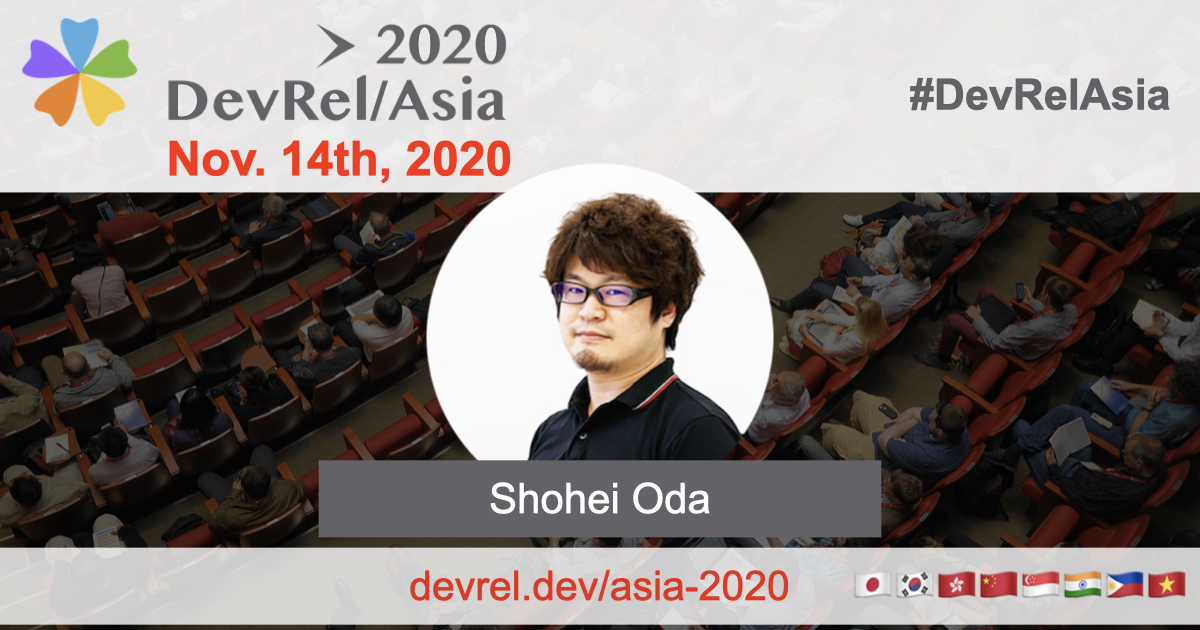
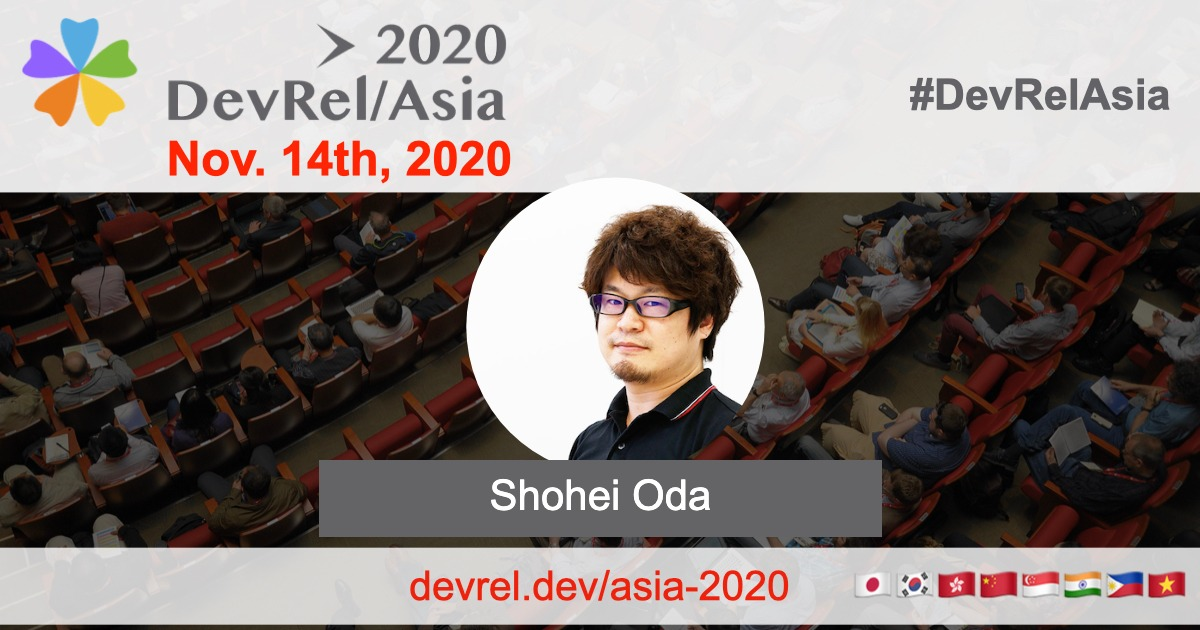
Add social image

diff --git a/assets/js/app.js b/assets/js/app.js
@@ -1,0 +1,47 @@
+document.addEventListener('DOMContentLoaded', async (e) => {
+  const board = document.querySelector("#social");
+  const ctx = board.getContext("2d");
+  const bg = new Image();
+  bg.src = "/asia-2020/assets/images/socials/base.jpg";
+
+  await loadImage(bg);
+  ctx.drawImage(bg, 0, 0);
+  
+  const id = url('?id');
+  const person = new Image();
+  person.src = `/asia-2020/assets/images/speakers/${id}.jpg`;
+  await loadImage(person);
+  ctx.save();
+  const width = 1200;
+  const height = 630;
+  ctx.beginPath();
+  const size = 347;
+  ctx.scale(0.86, 0.86);
+  const circle = size/2;
+  ctx.arc(600 + size/3, 380, circle, 0, Math.PI*2, false);
+  ctx.clip();
+  ctx.drawImage(person, 0, 0, size, size, width / 2 - 58, height / 2 - 110, size, size);
+  ctx.closePath();
+  ctx.restore();
+  ctx.beginPath();
+  ctx.fillStyle = "rgb(100,100,102)";
+  ctx.fillRect(319, 460, 563, 77);
+  ctx.closePath();
+
+  ctx.font = "42px Arial";
+  ctx.fillStyle = "rgb(255,255,255)";
+  const text = url('?name');
+  const textWidth = ctx.measureText( text ).width;
+  ctx.fillText(text, 319 + (563 - textWidth) / 2, 510);
+
+  const link = document.createElement("a");
+  link.href = board.toDataURL("image/jpeg");
+  link.download = `${id}.jpg`;
+  link.click();
+});
+
+async function loadImage(image) {
+  return new Promise((res, rej) => {
+    image.onload = res;
+  })
+}

diff --git a/social.html b/social.html
@@ -1,0 +1,10 @@
+---
+layout: default
+---
+
+<main id="main" style="padding-top: 5em">
+  <canvas id="social" width="1200" height="630"></canvas>
+  <button id="download">download</button>
+</main>
+
+<script src="{{ site.baseurl }}/assets/js/app.js"></script>
